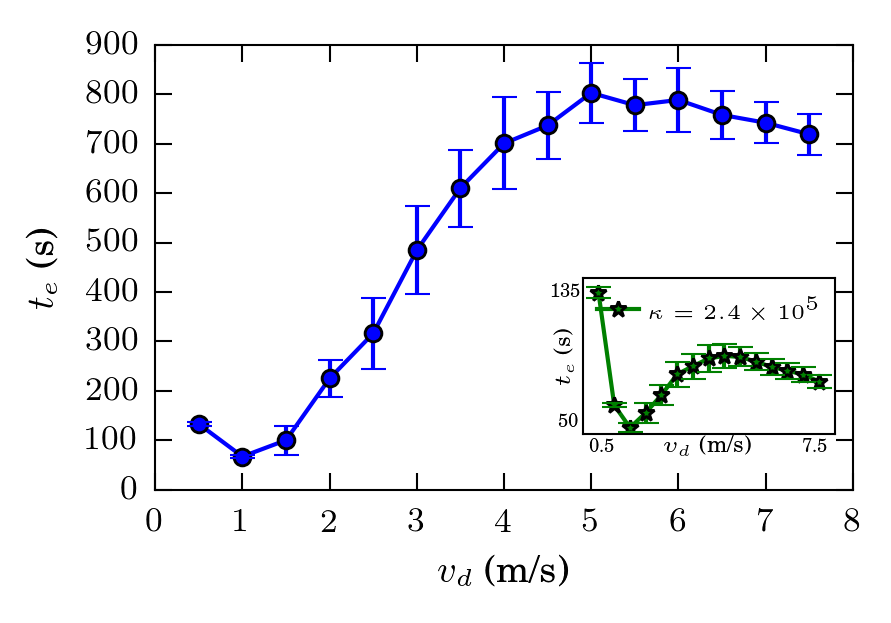
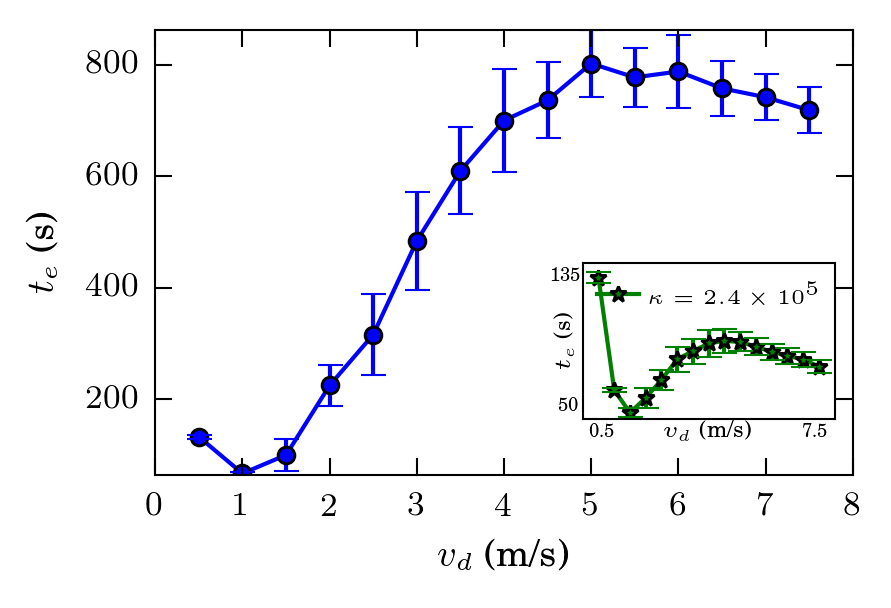
subi los archivos del tercer envio a Safety Science

diff --git a/paper_to_safety_science/plots/appendix/faster-is-slower/fis_kx10.py b/paper_to_safety_science/plots/appendix/faster-is-slower/fis_kx10.py
@@ -78,6 +78,7 @@ e_te_mean_kx10=promedia_te(te_kx10,iter_total,vd_total)[1]
 
 fig, ax1 = plt.subplots()
 
+pylab.yticks(np.arange(0,900,200))
 plt.plot(list_vd,te_mean_kx10,'-bo',mew=0.7,markersize=4,label='$\\kappa=2.4\\times10^{6}$') 
 plt.errorbar(list_vd,te_mean_kx10,e_te_mean_kx10,linestyle='none',fmt='none',color='none',ecolor='b') 
 
